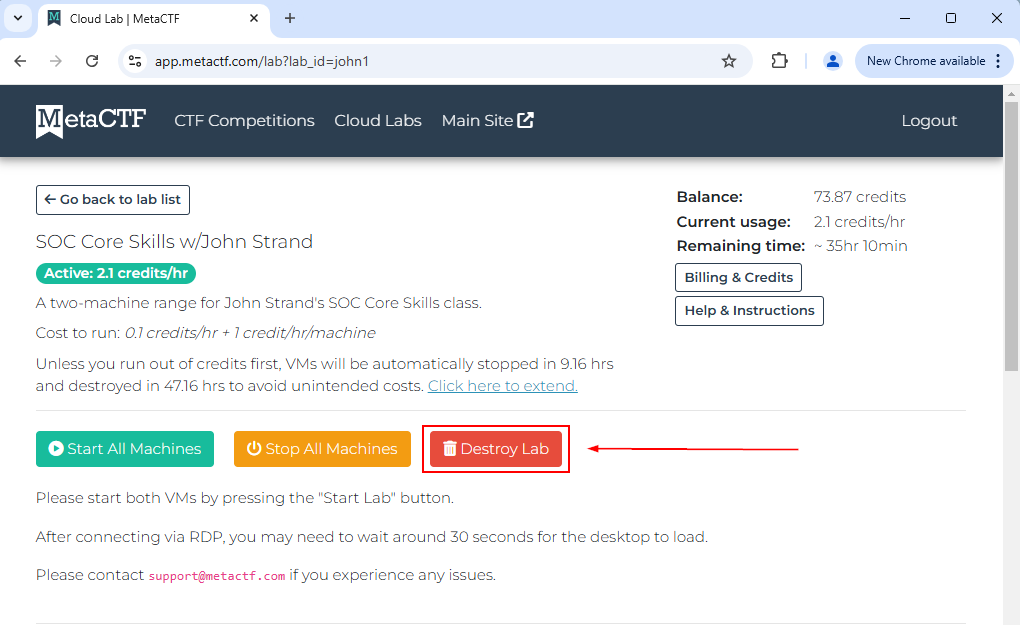
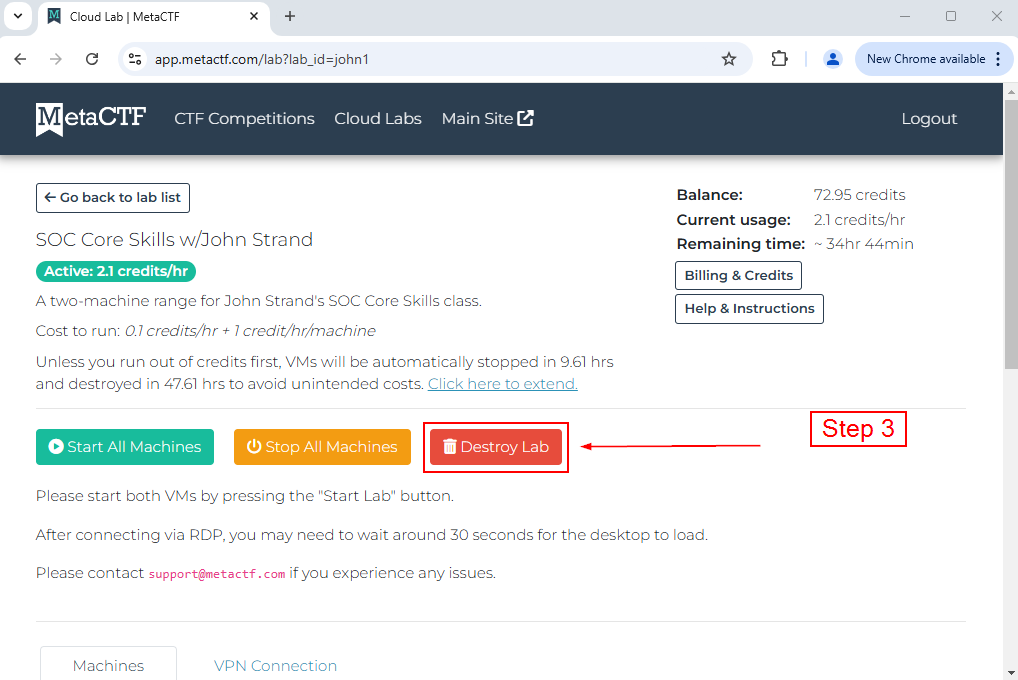
Lab Destruction Instructions

diff --git a/IntroClassFiles/Tools/IntroClass/LabDestruction/labdestruction.md b/IntroClassFiles/Tools/IntroClass/LabDestruction/labdestruction.md
@@ -8,4 +8,14 @@ To destroy the Labs, follow the following steps!
 
 First, close the VM window:
 
-Second, to the MetaCTF Cloud Lab page:
+![](attachments/closewindow.png)
+
+Second,  navigate to the MetaCTF Cloud Lab page:
+
+![](attachments/navigatetocloudlabs.png)
+
+Finally, click the red "Destroy Lab" button!
+
+![](attachments/clickdestroylabs.png)
+
+Congratulations! You have successfully destroyed the lab environment!
